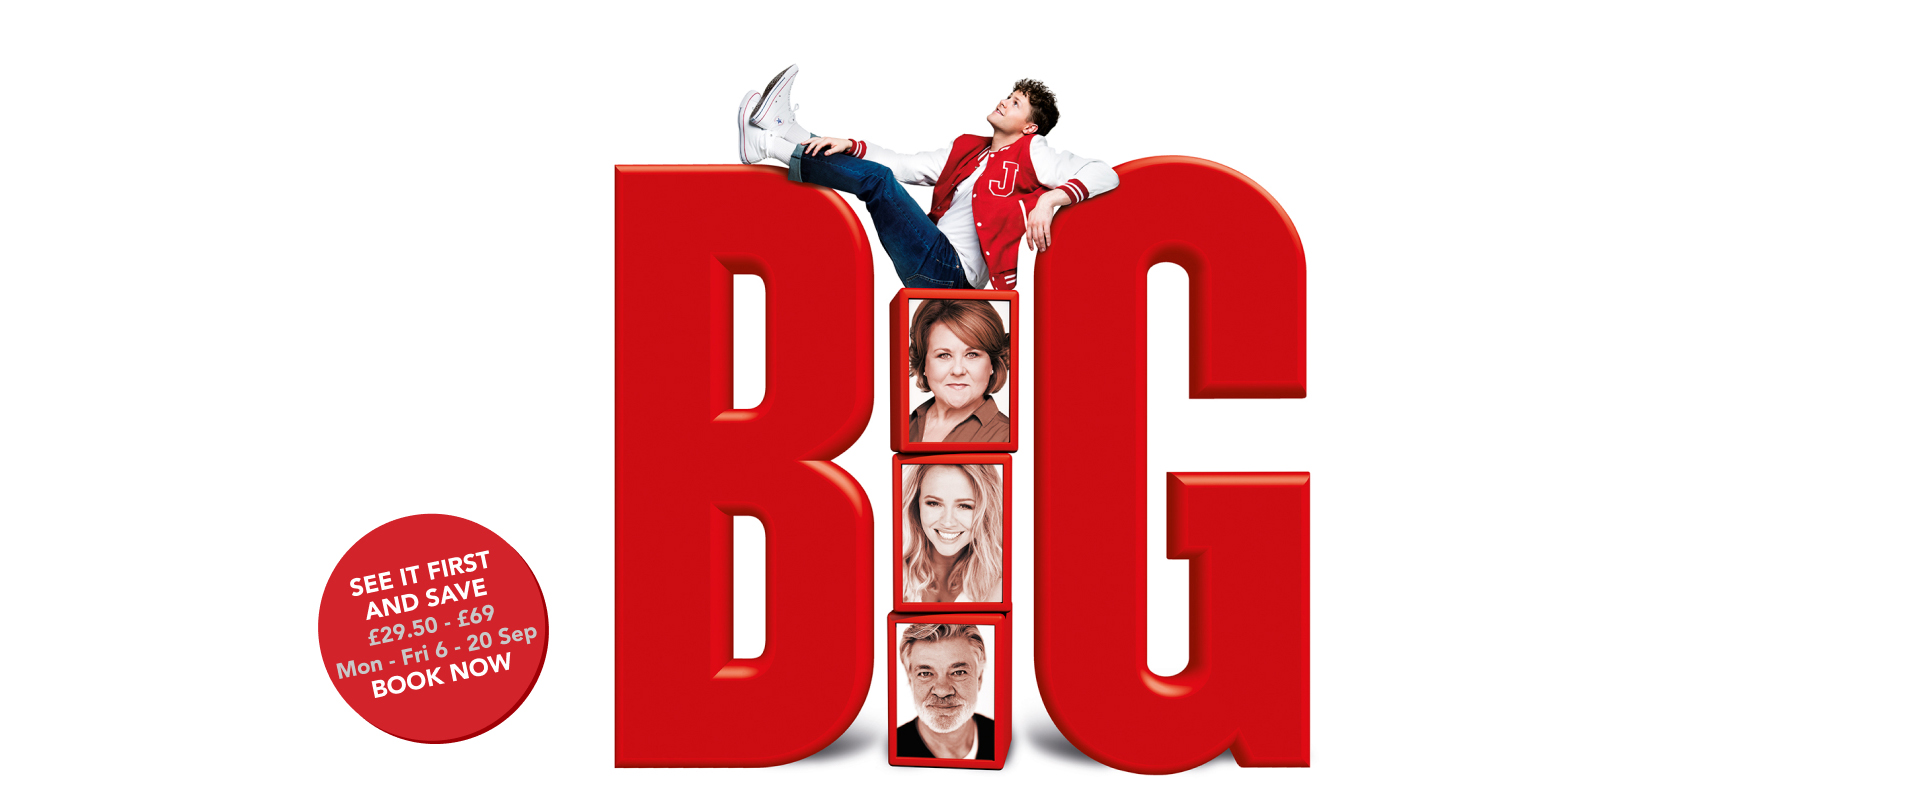
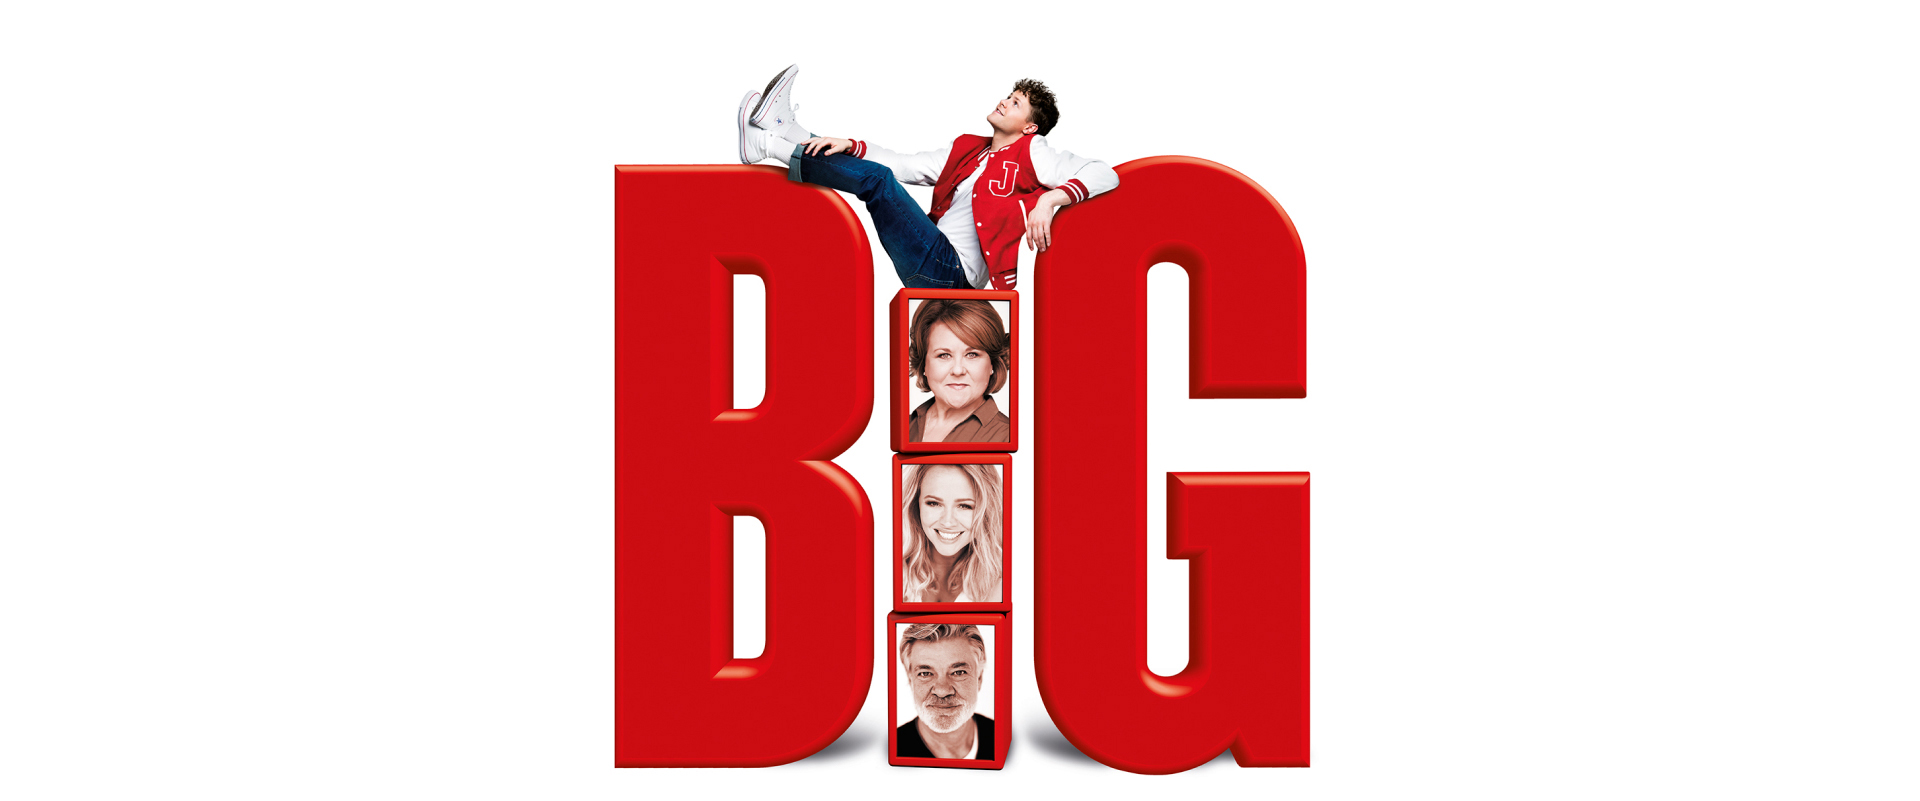
added roundal

Changed region(s): [[0.1562, 0.6242, 0.3125, 0.9363]]

diff --git a/src/pages/index.js b/src/pages/index.js
@@ -1,7 +1,7 @@
 import React, {Component} from 'react'
 import Layout from 'components/Layout'
 import {Container} from 'reactstrap'
-import {graphql} from 'gatsby'
+import {graphql, Link} from 'gatsby'
 import 'react-image-lightbox/style.css'
 
 const headData = {
@@ -19,6 +19,7 @@ class IndexPage extends Component {
                 headerImageTablet={this.props.data.headerImageTablet.childImageSharp.fluid}
                 headerImageMobile={this.props.data.headerImageMobile.childImageSharp.fluid}
                 headCopy={true}
+                headerRoundal={true}
                 displayLogo={false}
             >
                 <section className="page HomePage">
@@ -33,7 +34,7 @@ class IndexPage extends Component {
 
                         <Container fluid={true} className="d-lg-none py-4">
                             <Container>
-                             <div className="btn btn--red-offer"><a className="btn-book-tickets" href="https://www.nederlander.co.uk/whats-on/big" target="_blank" rel="noreferrer noopener">SEE IT FIRST AND SAVE<br/><span className="text--grey text--bold">£29.50 - £69 Mon - Fri, 6 - 20 Sep</span><br/>Book Now</a></div>
+                             <div className="btn btn--red-offer"><Link className="btn-book-tickets" to="/ticket-information/" target="_blank" rel="noreferrer noopener">SEE IT FIRST AND SAVE<br/><span className="text--grey text--bold">£29.50 - £69 Mon - Fri, 6 - 20 Sep</span><br/>Book Now</Link></div>
                             </Container>
                         </Container>
 

diff --git a/src/components/HeaderImage/HeaderImage.js b/src/components/HeaderImage/HeaderImage.js
@@ -1,4 +1,6 @@
 import React, {Component} from 'react';
+import {Container} from 'reactstrap'
+import {Link} from 'gatsby'
 import Img from 'gatsby-image'
 import headerCopyXs from "images/top-billing-sm.svg"
 import headerCopySm from "images/top-billing-md.svg"
@@ -7,7 +9,7 @@ import headerCopyLg from "images/top-billing-lg.svg"
 class HeaderImage extends Component {
     render() {
 
-        const { headerTitle, headerImage, headCopy, headerImageTablet, headerImageMobile, headerClasses, display } = this.props
+        const { headerTitle, headerImage, headCopy, headerRoundal, headerImageTablet, headerImageMobile, headerClasses, display } = this.props
 
         return(
             <div className="headerImage">
@@ -32,6 +34,14 @@ class HeaderImage extends Component {
                 {headerImageMobile &&
                     <Img fluid={headerImageMobile} className="d-block d-sm-none mobile-img"/>
                 }
+               
+               {headerRoundal &&
+                <Container fluid={true} className="roundal py-5 d-none d-lg-block">
+                  <Container>
+                        <div className="btn  btn--red-roundal"><Link className="btn-book-tickets" to="/ticket-information/" target="_blank" rel="noreferrer noopener">SEE IT FIRST<br /> AND SAVE<br/><span className="text--grey text--bold">£29.50 - £69<br /> Mon - Fri, 6 - 20 Sep</span><br/>Book Now</Link></div>
+                        </Container>
+                </Container>
+               }
             </div>
         )
     }

diff --git a/src/components/Layout.js b/src/components/Layout.js
@@ -19,7 +19,7 @@ class Layout extends Component {
     }
 
     render() {
-        const {children, headData, headCopy, headerTitle, headerImage, headerImageTablet, headerImageMobile, headerClasses, display, displayLogo,} = this.props;
+        const {children, headData, headCopy, headerRoundal, headerTitle, headerImage, headerImageTablet, headerImageMobile, headerClasses, display, displayLogo,} = this.props;
 
         return (
             <>
@@ -117,6 +117,7 @@ class Layout extends Component {
                     headerClasses={headerClasses}
                     headerTitle={headerTitle}
                     headCopy={headCopy}
+                    headerRoundal={headerRoundal}
                     display={display}
                 />
                 {children}

diff --git a/src/stylesheets/base/_buttons.scss b/src/stylesheets/base/_buttons.scss
@@ -41,6 +41,31 @@
         }
     }
 
+
+    &--red-roundal {
+        width: 100%;
+        height: auto;
+        background: url('../images/buttons/roundel.svg') no-repeat top center;
+        color: $big-white;
+        font-size: .9rem;
+
+
+        @include media-breakpoint-up(sm) {
+            height: 200px;
+        }
+
+        &:hover {
+            color: $big-white;
+            box-shadow: none;
+        }
+
+        a {
+          font-family: "Avenir-Black", Arial, sans-serif;
+          top: 33px;
+          position: relative;
+        }
+    }
+
     &--red-offer {
         width: 100%;
         height: auto;

diff --git a/src/stylesheets/components/_headerImage.scss b/src/stylesheets/components/_headerImage.scss
@@ -10,3 +10,23 @@
     max-width: 714px;
     margin: 0 auto;
 }
+
+.roundal {
+	margin-top: -25%;
+    margin-left: -29%;
+    transform: rotate(-15deg);
+
+    @include media-breakpoint-up(xl) {
+     	margin-top: -19%;
+        margin-left: -27%;
+      
+    }
+
+    @media (min-width: 1440px) {
+    	 margin-top: -18%;
+    }
+
+    @media (min-width: 1920px) {
+    	 margin-top: -15%;
+    }  
+}
